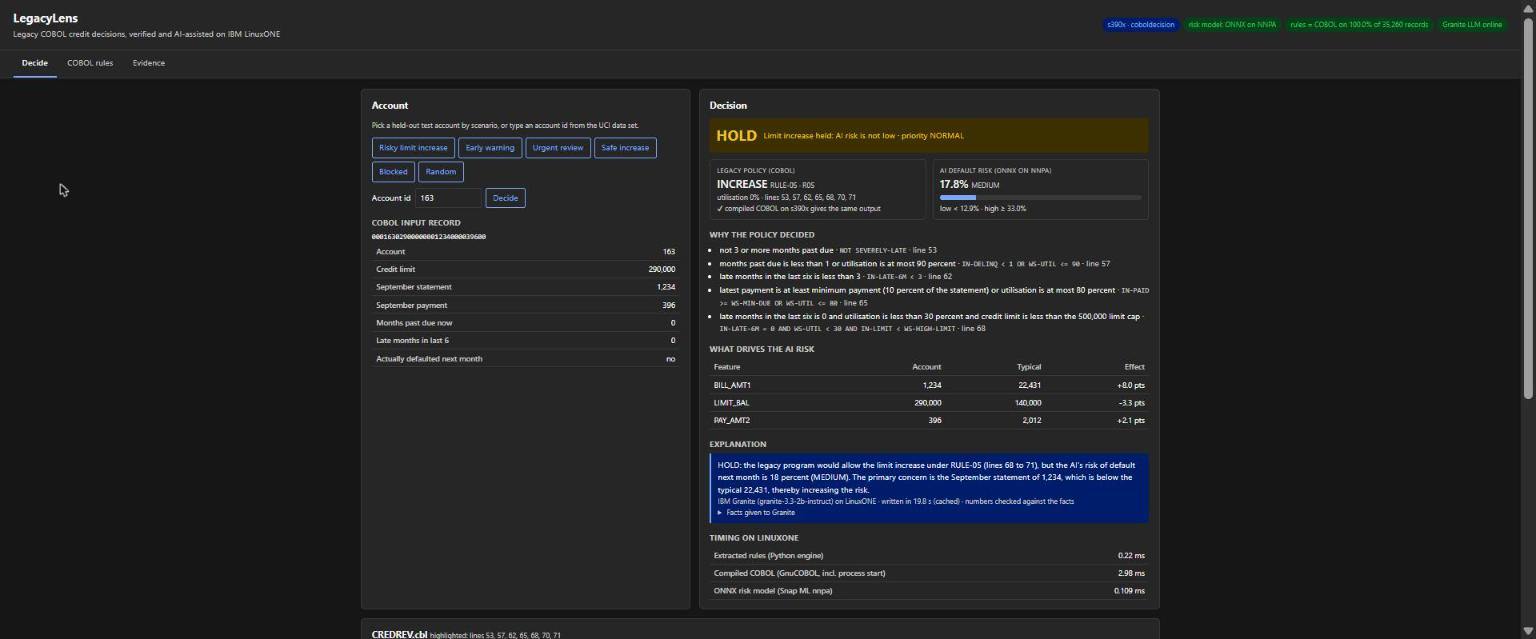
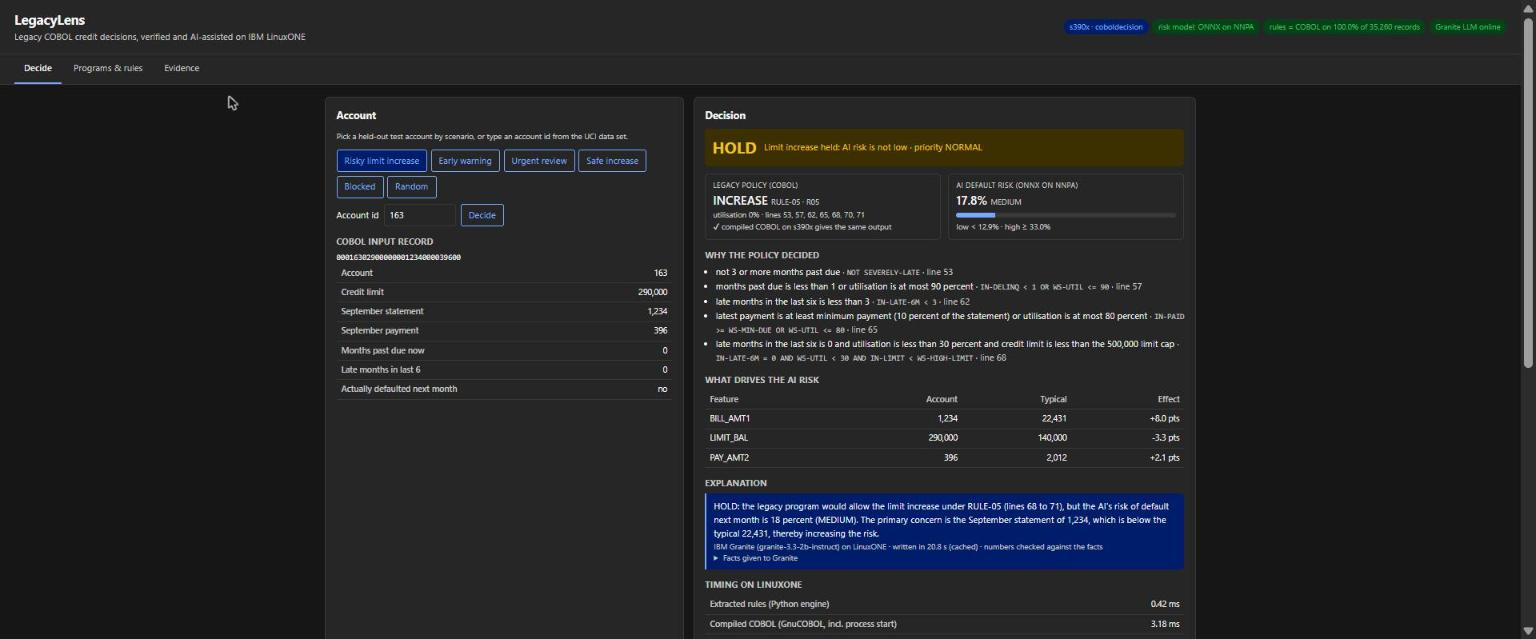
Fresh screenshots: decision desk, IBM SAM2 rules with z3, SAM1 findings, evidence; demo script

diff --git a/docs/demo_script.md b/docs/demo_script.md
@@ -1,15 +1,14 @@
 # Demo video script (under 3 minutes)
 
-Record the screen at 1080p. Keep the browser at 100% zoom. Have two windows ready: a terminal with an SSH session to the LinuxONE server, and the browser with the LegacyLens UI (through `ssh -L 8800:127.0.0.1:8000 linux1@<server>`, then http://localhost:8800).
+Record the screen at 1080p, browser at 100% zoom. Have two windows ready: a terminal with an SSH session to the LinuxONE server, and the browser with the LegacyLens UI (`ssh -L 8800:127.0.0.1:8000 linux1@<server>`, then http://localhost:8800). Start the services a few minutes before recording so the demo accounts' explanations are ready.
 
 | Time | Show | Say (roughly) |
 |---|---|---|
-| 0:00–0:20 | Title slide or README top | "Banks still make critical credit decisions in COBOL. Nobody can say exactly what those programs do, so adding AI to them is risky. LegacyLens fixes that, and it runs entirely on IBM LinuxONE." |
-| 0:20–0:40 | LinuxONE Community Cloud portal: the `coboldecision` server, AI_LAB flavor. Terminal: `uname -m`, `grep -o nnpa /proc/cpuinfo \| head -1`, `podman ps` | "This is our LinuxONE virtual server: an IBM z17, s390x, with the on-chip AI accelerator, NNPA. The service runs here in a podman container." |
-| 0:40–1:05 | UI, **COBOL rules** tab. Click a rule to highlight its lines. Terminal: `python scripts/verify_rules.py` (7 s) | "We parse the COBOL and turn every decision path into a rule, with its line numbers. Then we prove it: the rules and the compiled COBOL program give the same output line for all 35,260 records, real accounts plus boundary and random cases. 100 percent." |
-| 1:05–1:50 | UI, **Decide** tab. Click **Risky limit increase**. Point at policy box, AI risk box, final HOLD, highlighted COBOL lines, timing, Granite explanation | "The legacy policy says INCREASE, rule 5, these lines. Our risk model, an ONNX file served by IBM Snap ML on the z17 AI accelerator, scores this account in a fraction of a millisecond: medium risk. So the increase is held for review. IBM Granite, running on the same server, explains it, and we check every number it writes against the facts." |
-| 1:50–2:10 | Click **Early warning**, then **Safe increase** | "Here the policy would keep the account unchanged, but the AI sees a high risk of default and escalates it. And here both agree: the increase goes through. The AI can hold or escalate, never approve on its own." |
-| 2:10–2:40 | UI, **Evidence** tab: hybrid table | "On 4,500 held-out accounts, the hybrid keeps 57 percent of the defaulters among limit increases from getting one, and its early warnings flag accounts where half defaulted the next month. Same ONNX model on three runtimes, all agreeing." |
-| 2:40–2:58 | README architecture diagram | "COBOL rules you can trust, real-time AI on the accelerator, and explanations a reviewer can check. All on LinuxONE. Thank you." |
-
-Before recording: start the LLM (`sudo systemctl start granite` or the llama-server command in the README) and the container, open the UI once and wait about a minute so the demo accounts' explanations are cached.
+| 0:00–0:15 | README top ("At a glance") | "Banks still make critical decisions in COBOL that nobody can fully explain. LegacyLens turns that code into rules, proves them, and adds real-time AI, all on IBM LinuxONE." |
+| 0:15–0:30 | LinuxONE portal: `coboldecision`, AI_LAB. Terminal: `uname -m`, `grep -o nnpa /proc/cpuinfo \| head -1`, `podman ps`, `systemctl --user is-active legacylens granite` | "Our LinuxONE server: an IBM z17 with the on-chip AI accelerator. The service runs in a podman container under systemd, next to IBM Granite." |
+| 0:30–1:05 | UI **Programs & rules** → **SAM2**. Point at the stats, click a rule (lines highlight), open "Example input found by z3" | "This is IBM's own sample code: copybooks, overlays, packed decimals. We found 109 paths in it; the z3 solver proved 92 impossible and simplified the rest to 17 rules, proving each one equivalent. Then we ran the rules against the compiled program, 7,535 calls, byte for byte: 100 percent." |
+| 1:05–1:25 | **SAM1**: the findings box | "On IBM's batch program the whole file run matches too, and LegacyLens found five defects in IBM's sample: error messages that report the wrong file's status, a file never closed, and a loop that writes past the end of a table." |
+| 1:25–2:05 | **Decide** tab → **Risky limit increase**. Point at the policy box (COBOL rule + lines, "compiled COBOL gives the same output"), AI risk (ONNX on NNPA), final HOLD, timing, Granite explanation | "Now the credit policy. COBOL says increase the limit, rule 5. Our ONNX risk model, served on the z17's AI accelerator, scores the account in microseconds: medium risk. So the increase is held for review. IBM Granite on the same server explains it, and every number it writes is checked against the facts." |
+| 2:05–2:20 | **Early warning**, then **Safe increase** | "The AI can escalate or hold, never approve on its own. Here it agrees, and the increase goes through." |
+| 2:20–2:45 | **Evidence** tab: hybrid table, speed table | "On 4,500 held-out accounts the hybrid keeps 57 percent of defaulters from getting a limit increase. The whole portfolio is decided at 125,000 accounts a second; one decision through the API takes about 5 milliseconds." |
+| 2:45–2:58 | README architecture | "COBOL rules you can prove, real-time AI on the accelerator, explanations you can check. All on LinuxONE." |

diff --git a/README.md b/README.md
@@ -93,8 +93,10 @@ Evidence: [docs/linuxone_system.txt](docs/linuxone_system.txt) (machine type 917
 |---|---|
 | ![LinuxONE virtual server](docs/screenshots/01-linuxone-virtual-server.jpg) | ![A held limit increase](docs/screenshots/02-decision-hold.jpg) |
 | The `coboldecision` server in the LinuxONE Community Cloud (AI_LAB flavor) | A decision: COBOL says INCREASE (RULE-05), AI risk is MEDIUM, so the increase is held; Granite explains |
-| ![Program explorer](docs/screenshots/03-cobol-rules.jpg) | ![Evidence](docs/screenshots/04-evidence.jpg) |
-| Rules with their lines, z3 results and Granite's documentation | Rules vs compiled COBOL, model metrics, hybrid impact |
+| ![IBM SAM2 in the program explorer](docs/screenshots/03-cobol-rules.jpg) | ![IBM SAM1 findings](docs/screenshots/05-ibm-sam1-findings.jpg) |
+| IBM's SAM2: 109 paths, 92 proved impossible, 17 rules; struck conditions are implied (z3 proof) | IBM's SAM1: five findings, and the whole program matches the compiled build on 300 file runs |
+| ![Evidence](docs/screenshots/04-evidence.jpg) | |
+| Evidence: IBM SAM2 and SAM1 checks, construct conformance, speed | |
 
 ## Results (all measured on the LinuxONE server)
 
